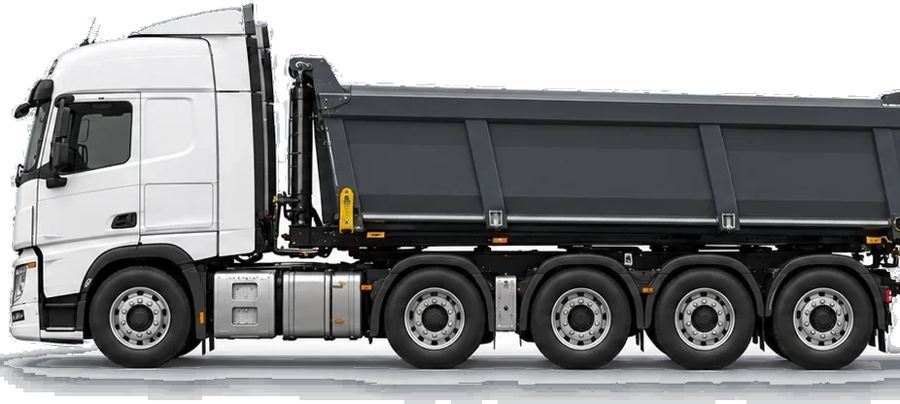
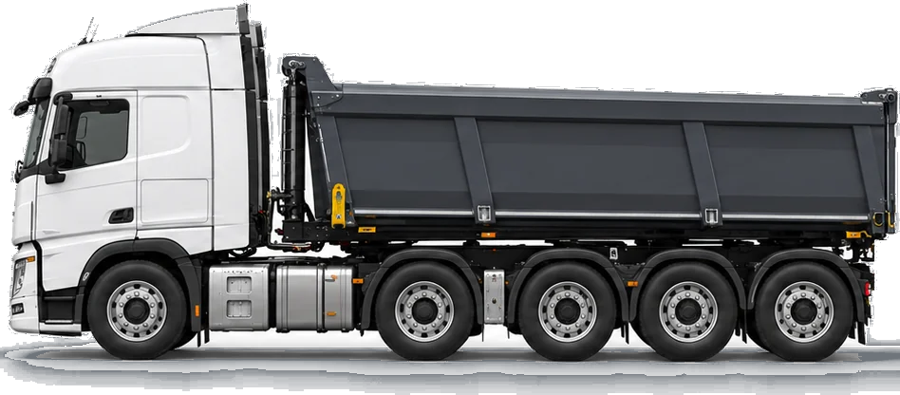
Самосвал: целый кузов без шланга и сцепки; блог: разные машины у соседних статей

diff --git a/src/lib/blog/visuals.ts b/src/lib/blog/visuals.ts
@@ -23,18 +23,19 @@ const VEHICLES = {
   tral: { file: 'tral', label: 'Lavettikuljetus' },
 } satisfies Record<string, Vehicle>;
 
-/* Слово в тексте → машина. Первое совпадение выигрывает. */
+/*
+ * Слово в тексте → машина, только когда тема прямо про неё (земляные работы,
+ * контейнеры, спецтехника, перецепы). Остальные статьи (водители, документы,
+ * счета…) получают машину по адресу статьи — иначе подряд шли одинаковые.
+ */
 const TOPICS: [RegExp, keyof typeof VEHICLES][] = [
   [/maansiirt|kippi|massa|sora|murske|maa-aines|työmaa|earthwork|dump/i, 'kippi'],
-  [/kontti|container|satama|port/i, 'kontti'],
-  [/lavetti|kone|erikoiskulj|oversize|excavat/i, 'tral'],
-  [/satulast|swap|vaihtokori|perävaunu|trailer/i, 'puoli'],
-  [/cmr|rahtikirj|consignment|tarjous|lasku|invoice|quote/i, 'puoli'],
-  [/palautus|paluukuorm|tyhjä|return|empty/i, 'tays'],
-  [/kuljettaj|palkka|työaika|ajopäiväkirj|driver|working time/i, 'kasetti'],
+  [/kontti|container|satama/i, 'kontti'],
+  [/lavetti|työkone|erikoiskulj|oversize|excavat/i, 'tral'],
+  [/satulast|swap|vaihtokori/i, 'puoli'],
 ];
 
-const ROTATION: (keyof typeof VEHICLES)[] = ['puoli', 'kasetti', 'tays', 'kontti', 'ppv', 'kippi', 'tral'];
+const ROTATION: (keyof typeof VEHICLES)[] = ['puoli', 'kasetti', 'tays', 'kontti', 'ppv', 'tral'];
 
 function hash(s: string): number {
   let h = 0;
